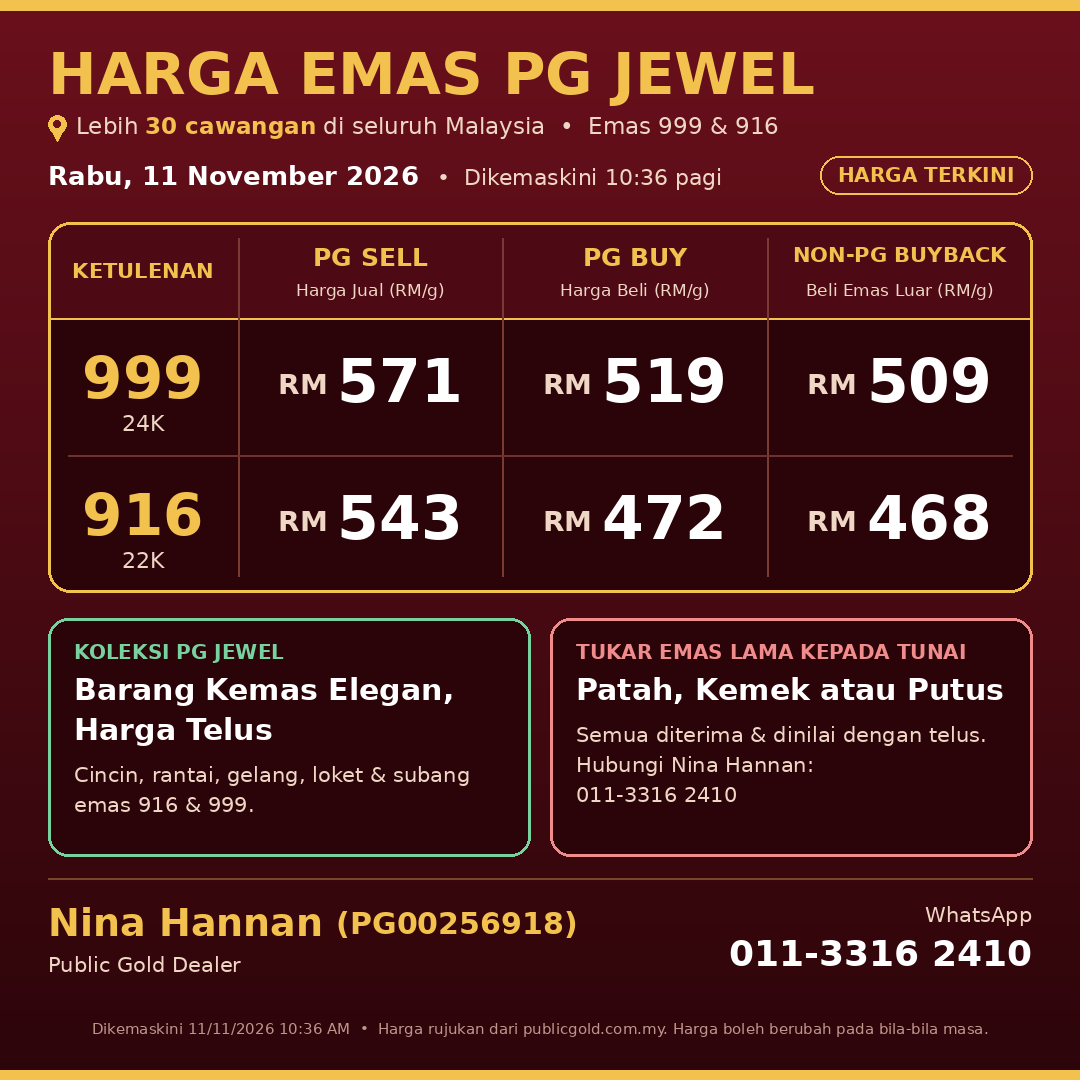
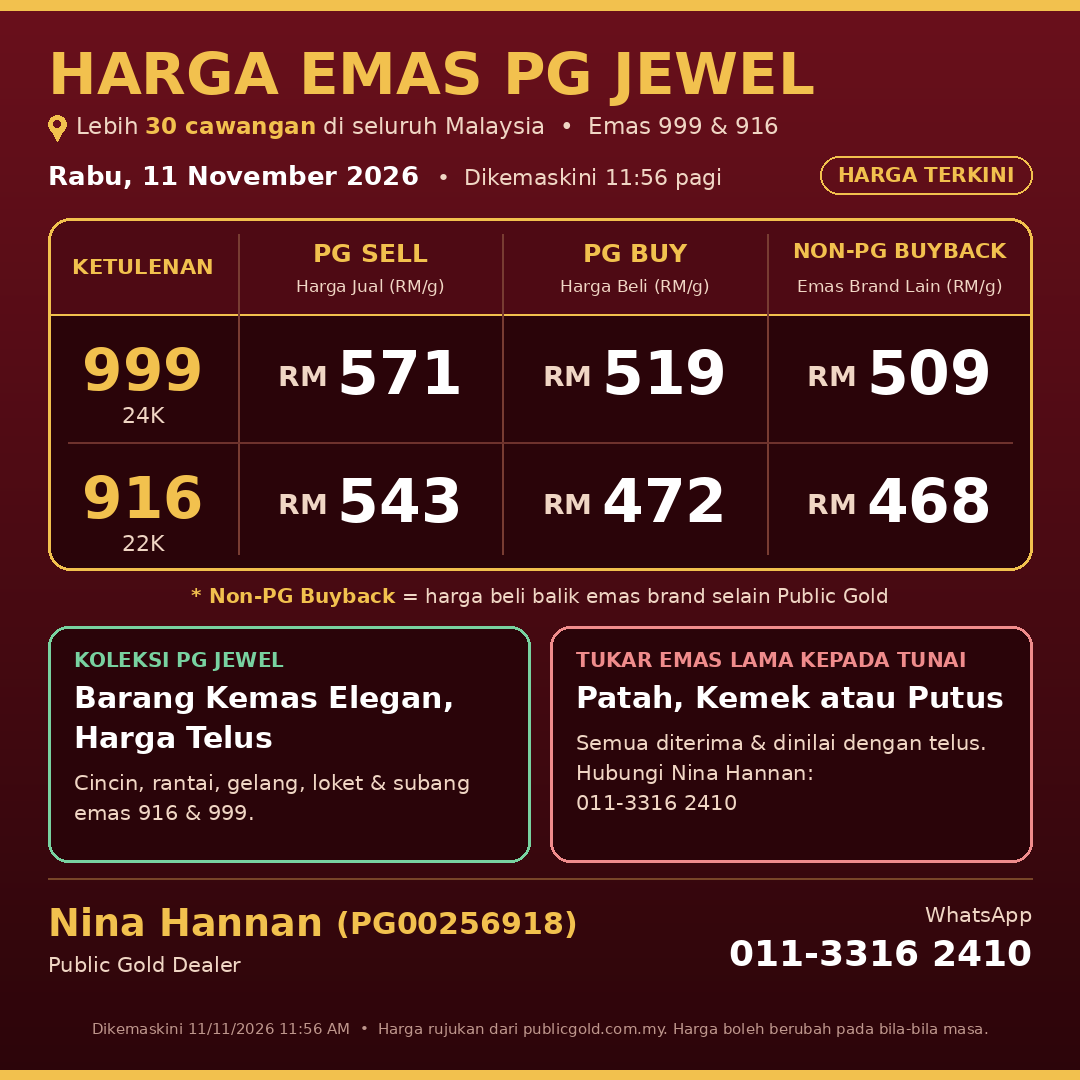
Poster: tambah nota penerangan Non-PG Buyback di bawah jadual
Claude-Session: https://claude.ai/code/session_017SLjAEMbia3a4tg9oiBE1n

Changed region(s): [[0.0306, 0.1528, 0.9778, 0.7639], [0.4583, 0.7639, 0.4889, 0.7944]]

diff --git a/bot.py b/bot.py
@@ -281,7 +281,7 @@ def render_poster(p: dict, now: datetime, daily: bool, path: Path) -> Path:
     _right(d, R - 18, 163, tag, ft, GOLD)
 
     # ---- Jadual harga (1 jadual) ----
-    tx0, ty0, tx1, ty1 = L, 222, R, 592
+    tx0, ty0, tx1, ty1 = L, 218, R, 570
     d.rounded_rectangle([tx0, ty0, tx1, ty1], 22, fill=PANEL, outline=GOLD, width=3)
     c1 = tx0 + 190
     cw = (tx1 - c1) / 3
@@ -319,11 +319,18 @@ def render_poster(p: dict, now: datetime, daily: bool, path: Path) -> Path:
             d.text((x, ry + rh / 2 - 18), rm, font=fr, fill=CREAM)
             d.text((x + d.textlength(rm, font=fr), ry + rh / 2 - 40), num, font=f, fill=WHITE)
 
+    # ---- Nota Non-PG Buyback ----
+    fn1, fn2 = F(20, "bold"), F(20, "reg")
+    t1, t2 = "* Non-PG Buyback ", "= harga beli balik emas brand selain Public Gold"
+    nx = W / 2 - (d.textlength(t1, font=fn1) + d.textlength(t2, font=fn2)) / 2
+    d.text((nx, 584), t1, font=fn1, fill=GOLD)
+    d.text((nx + d.textlength(t1, font=fn1), 584), t2, font=fn2, fill=CREAM)
+
     # ---- Kad promosi ----
     mid = W / 2
-    _promo_card(d, (L, 618, mid - 10, 856), MINT, "KOLEKSI PG JEWEL", "Barang Kemas Elegan, Harga Telus",
+    _promo_card(d, (L, 626, mid - 10, 862), MINT, "KOLEKSI PG JEWEL", "Barang Kemas Elegan, Harga Telus",
                 ["Cincin, rantai, gelang, loket & subang emas 916 & 999."])
-    _promo_card(d, (mid + 10, 618, R, 856), PINK, "TUKAR EMAS LAMA KEPADA TUNAI", "Patah, Kemek atau Putus",
+    _promo_card(d, (mid + 10, 626, R, 862), PINK, "TUKAR EMAS LAMA KEPADA TUNAI", "Patah, Kemek atau Putus",
                 ["Semua diterima & dinilai dengan telus. Hubungi Nina Hannan:", WHATSAPP])
 
     # ---- Kaki ----
